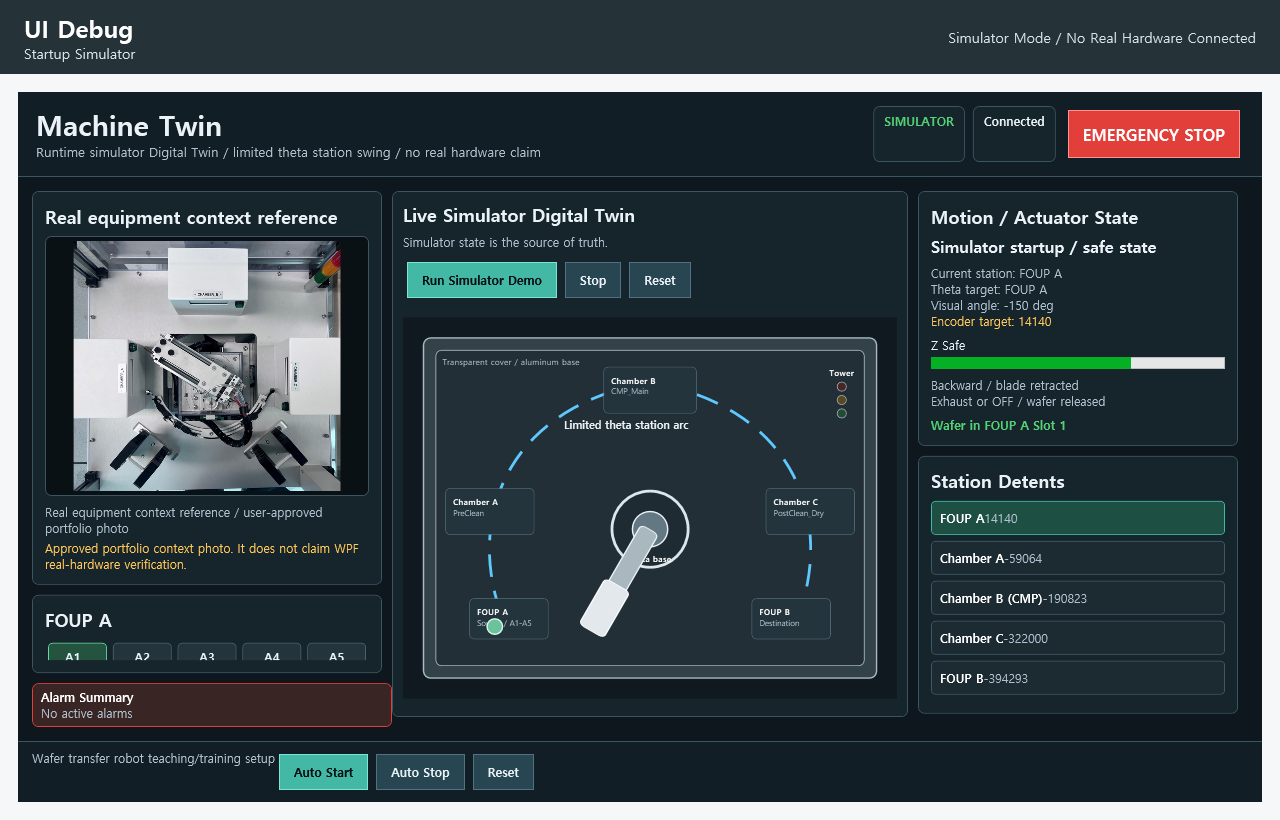
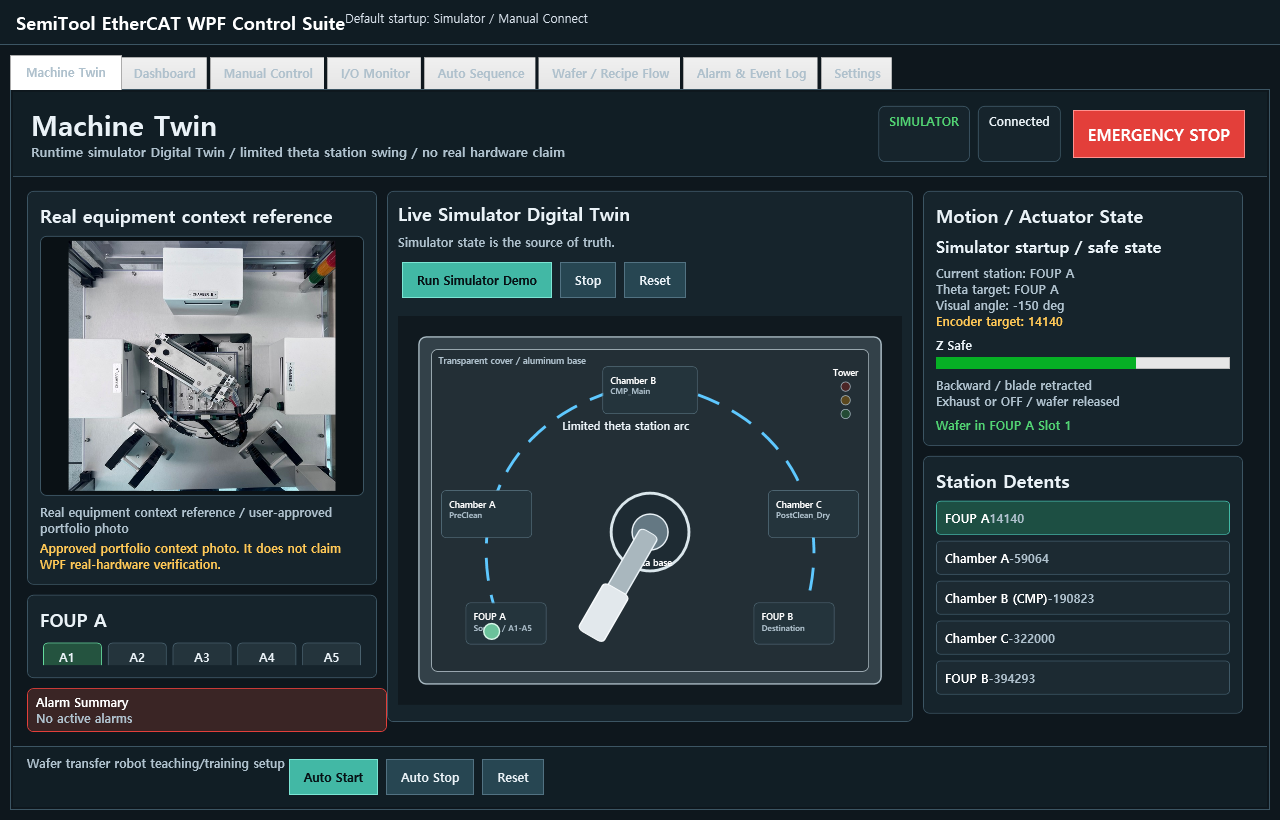
Wire Machine Twin into runtime main window

diff --git a/src/SemiTool.Hmi.Wpf/DemoAssetCapture.cs b/src/SemiTool.Hmi.Wpf/DemoAssetCapture.cs
@@ -28,7 +28,7 @@ internal static class DemoAssetCapture
 
         await PrepareSimulatorStateAsync(runtime);
         await viewModel.RefreshAsync();
-        await RenderMachineTwinAsync(viewModel.MachineTwin, "Machine Twin", "Actual runtime MachineTwinView / simulator mode", IoPath.Combine(outputDirectory, "machine-twin-runtime.png"));
+        await RenderMainWindowAsync(viewModel, IoPath.Combine(outputDirectory, "machine-twin-runtime.png"));
         await RenderAsync(new DashboardView { DataContext = viewModel.Dashboard }, "Dashboard", "Simulator mode overview", IoPath.Combine(outputDirectory, "dashboard.png"));
         await RenderAsync(new ManualControlView { DataContext = viewModel.Manual }, "Manual Control", "Simulator-only manual operations", IoPath.Combine(outputDirectory, "manual-control.png"));
         await RenderAsync(new IoMonitorView { DataContext = viewModel.IoMonitor }, "I/O Monitor", "Named DO/DI points from EquipmentProfile", IoPath.Combine(outputDirectory, "io-monitor.png"));
@@ -59,7 +59,15 @@ internal static class DemoAssetCapture
         {
             var fileName = GetDebugScreenshotName(step.StepIndex);
             var path = IoPath.Combine(screenshotDirectory, fileName);
-            await RenderMachineTwinAsync(viewModel.MachineTwin, "UI Debug", step.StepName, path);
+            if (step.StepIndex == 0)
+            {
+                await RenderMainWindowAsync(viewModel, path);
+            }
+            else
+            {
+                await RenderMachineTwinAsync(viewModel.MachineTwin, "UI Debug", step.StepName, path);
+            }
+
             var relativePath = $"docs/debug/latest/screenshots/{fileName}";
             trace.Add(viewModel.MachineTwin.CreateTraceEntry(step, relativePath));
         });
@@ -92,6 +100,43 @@ internal static class DemoAssetCapture
 
     private static Task RenderMachineTwinAsync(MachineTwinViewModel machineTwin, string title, string subtitle, string path) =>
         RenderAsync(new MachineTwinView { DataContext = machineTwin }, title, subtitle, path);
+
+    private static async Task RenderMainWindowAsync(MainViewModel viewModel, string path)
+    {
+        var window = new MainWindow
+        {
+            DataContext = viewModel,
+            Width = CaptureWidth,
+            Height = CaptureHeight,
+            WindowStartupLocation = WindowStartupLocation.Manual,
+            Left = -32000,
+            Top = -32000,
+            ShowInTaskbar = false,
+            WindowStyle = WindowStyle.None,
+            ResizeMode = ResizeMode.NoResize
+        };
+
+        try
+        {
+            window.Show();
+            window.Measure(new Size(CaptureWidth, CaptureHeight));
+            window.Arrange(new Rect(0, 0, CaptureWidth, CaptureHeight));
+            window.UpdateLayout();
+            await window.Dispatcher.InvokeAsync(() => { }, DispatcherPriority.Render);
+
+            var bitmap = new RenderTargetBitmap(CaptureWidth, CaptureHeight, Dpi, Dpi, PixelFormats.Pbgra32);
+            bitmap.Render(window);
+
+            var encoder = new PngBitmapEncoder();
+            encoder.Frames.Add(BitmapFrame.Create(bitmap));
+            await using var stream = File.Create(path);
+            encoder.Save(stream);
+        }
+        finally
+        {
+            window.Close();
+        }
+    }
 
     private static async Task WriteDebugReportAsync(string debugDirectory, IReadOnlyList<MachineTwinStateTraceEntry> trace)
     {
@@ -214,6 +259,15 @@ internal static class DemoAssetCapture
         builder.AppendLine("- Preserved theta encoder values are machine/teaching values, not literal UI degrees.");
         builder.AppendLine("- The robot is modeled as a limited station-to-station theta swing, not continuous 360-degree rotation.");
         builder.AppendLine();
+        builder.AppendLine("## Runtime Integration Check");
+        builder.AppendLine();
+        builder.AppendLine("- MainWindow first tab is `Machine Twin`.");
+        builder.AppendLine("- MainWindow uses `<views:MachineTwinView DataContext=\"{Binding MachineTwin}\" />`.");
+        builder.AppendLine("- MainViewModel exposes `MachineTwinViewModel` through the `MachineTwin` property.");
+        builder.AppendLine("- `Run Simulator Demo` is a command on the actual `MachineTwinView` runtime screen.");
+        builder.AppendLine("- `00-startup-simulator.png` is captured from the actual `MainWindow`, so it shows the selected `Machine Twin` tab.");
+        builder.AppendLine("- The remaining screenshots are captured from the same `MachineTwinView` and `MachineTwinViewModel` used by the running app.");
+        builder.AppendLine();
         builder.AppendLine("## Captured Steps");
         builder.AppendLine();
         builder.AppendLine("| Step | State | Station | Z | Blade | Vacuum | Wafer | Screenshot |");
@@ -229,7 +283,7 @@ internal static class DemoAssetCapture
         builder.AppendLine();
         builder.AppendLine("| Expected simulator movement | Evidence in this report |");
         builder.AppendLine("|---|---|");
-        builder.AppendLine("| Machine Twin starts in Simulator mode and does not connect to real hardware. | Step 0 shows `IsSimulatorMode=true`, `IsRealHardwareMode=false`, and `IsConnected=false` in the JSON/CSV trace. |");
+        builder.AppendLine("| Machine Twin starts in Simulator mode and does not connect to real hardware. | Step 0 shows `IsSimulatorMode=true` and `IsRealHardwareMode=false`; `IsConnected` refers to the simulator controller connection, not real equipment. |");
         builder.AppendLine("| FOUP A Slot 1 starts with a wafer. | Step 1 keeps `IsWaferInFoupA1=true` and no wafer on the blade. |");
         builder.AppendLine("| Theta target follows the limited station arc instead of a 360-degree dial. | Steps 2, 5, 7, 8, and 9 show station-to-station `ThetaTargetName` changes plus preserved encoder values. |");
         builder.AppendLine("| Z moves from Safe to Work only during pick/place visualization. | Steps 3, 4, 6, 7, 8, and 9 show `ZState=Z Work`; reset returns to `Z Safe`. |");

diff --git a/src/SemiTool.Tests/RuntimeIntegrationTests.cs b/src/SemiTool.Tests/RuntimeIntegrationTests.cs
@@ -1,0 +1,69 @@
+namespace SemiTool.Tests;
+
+public sealed class RuntimeIntegrationTests
+{
+    [Fact]
+    public void MainWindow_PutsMachineTwinBeforeDashboard()
+    {
+        var xaml = ReadRepositoryFile("src", "SemiTool.Hmi.Wpf", "MainWindow.xaml");
+
+        var machineTwinIndex = xaml.IndexOf("Header=\"Machine Twin\"", StringComparison.Ordinal);
+        var dashboardIndex = xaml.IndexOf("Header=\"Dashboard\"", StringComparison.Ordinal);
+
+        Assert.True(machineTwinIndex >= 0, "MainWindow must expose the Machine Twin tab.");
+        Assert.True(dashboardIndex >= 0, "MainWindow must keep the Dashboard tab.");
+        Assert.True(machineTwinIndex < dashboardIndex, "Machine Twin should be the first/default tab before Dashboard.");
+    }
+
+    [Fact]
+    public void MainWindow_BindsMachineTwinViewToMainViewModelProperty()
+    {
+        var xaml = ReadRepositoryFile("src", "SemiTool.Hmi.Wpf", "MainWindow.xaml");
+
+        Assert.Contains("<views:MachineTwinView DataContext=\"{Binding MachineTwin}\" />", xaml);
+        Assert.Contains("SelectedIndex=\"0\"", xaml);
+    }
+
+    [Fact]
+    public void MainViewModel_ExposesMachineTwinUsingSharedRuntime()
+    {
+        var source = ReadRepositoryFile("src", "SemiTool.Hmi.Wpf", "ViewModels", "MainViewModel.cs");
+
+        Assert.Contains("public MachineTwinViewModel MachineTwin { get; }", source);
+        Assert.Contains("MachineTwin = new MachineTwinViewModel(runtime);", source);
+        Assert.Contains("MachineTwin.Refresh(status);", source);
+    }
+
+    [Fact]
+    public void RuntimeDebugEvidence_DocumentsMainWindowIntegration()
+    {
+        var captureSource = ReadRepositoryFile("src", "SemiTool.Hmi.Wpf", "DemoAssetCapture.cs");
+
+        Assert.Contains("## Runtime Integration Check", captureSource);
+        Assert.Contains("00-startup-simulator.png", captureSource);
+        Assert.Contains("RenderMainWindowAsync", captureSource);
+        Assert.Contains("MainWindow first tab is `Machine Twin`", captureSource);
+    }
+
+    private static string ReadRepositoryFile(params string[] parts)
+    {
+        var path = Path.Combine(new[] { FindRepositoryRoot() }.Concat(parts).ToArray());
+        return File.ReadAllText(path);
+    }
+
+    private static string FindRepositoryRoot()
+    {
+        var directory = new DirectoryInfo(AppContext.BaseDirectory);
+        while (directory is not null)
+        {
+            if (File.Exists(Path.Combine(directory.FullName, "SemiTool.EtherCAT.WPF.ControlSuite.sln")))
+            {
+                return directory.FullName;
+            }
+
+            directory = directory.Parent;
+        }
+
+        throw new DirectoryNotFoundException("Could not locate repository root for runtime integration tests.");
+    }
+}

diff --git a/docs/debug/latest/ui-runtime-verification.md b/docs/debug/latest/ui-runtime-verification.md
@@ -19,6 +19,15 @@ dotnet run --project src/SemiTool.Hmi.Wpf/SemiTool.Hmi.Wpf.csproj --configuratio
 - Preserved theta encoder values are machine/teaching values, not literal UI degrees.
 - The robot is modeled as a limited station-to-station theta swing, not continuous 360-degree rotation.
 
+## Runtime Integration Check
+
+- MainWindow first tab is `Machine Twin`.
+- MainWindow uses `<views:MachineTwinView DataContext="{Binding MachineTwin}" />`.
+- MainViewModel exposes `MachineTwinViewModel` through the `MachineTwin` property.
+- `Run Simulator Demo` is a command on the actual `MachineTwinView` runtime screen.
+- `00-startup-simulator.png` is captured from the actual `MainWindow`, so it shows the selected `Machine Twin` tab.
+- The remaining screenshots are captured from the same `MachineTwinView` and `MachineTwinViewModel` used by the running app.
+
 ## Captured Steps
 
 | Step | State | Station | Z | Blade | Vacuum | Wafer | Screenshot |
@@ -40,7 +49,7 @@ dotnet run --project src/SemiTool.Hmi.Wpf/SemiTool.Hmi.Wpf.csproj --configuratio
 
 | Expected simulator movement | Evidence in this report |
 |---|---|
-| Machine Twin starts in Simulator mode and does not connect to real hardware. | Step 0 shows `IsSimulatorMode=true`, `IsRealHardwareMode=false`, and `IsConnected=false` in the JSON/CSV trace. |
+| Machine Twin starts in Simulator mode and does not connect to real hardware. | Step 0 shows `IsSimulatorMode=true` and `IsRealHardwareMode=false`; `IsConnected` refers to the simulator controller connection, not real equipment. |
 | FOUP A Slot 1 starts with a wafer. | Step 1 keeps `IsWaferInFoupA1=true` and no wafer on the blade. |
 | Theta target follows the limited station arc instead of a 360-degree dial. | Steps 2, 5, 7, 8, and 9 show station-to-station `ThetaTargetName` changes plus preserved encoder values. |
 | Z moves from Safe to Work only during pick/place visualization. | Steps 3, 4, 6, 7, 8, and 9 show `ZState=Z Work`; reset returns to `Z Safe`. |

diff --git a/README.md b/README.md
@@ -62,6 +62,8 @@ FOUP A -> Chamber A -> Chamber B -> Chamber C -> FOUP B
 
 The demo runs in Simulator mode only. It does not load `IEG3268_Dll.dll`, does not connect to real equipment, and does not claim real-hardware verification.
 
+The first runtime debug screenshot captures the actual `MainWindow` with the `Machine Twin` tab selected. That tab contains `<views:MachineTwinView DataContext="{Binding MachineTwin}" />`, and `MainViewModel.MachineTwin` shares the same `RuntimeCoordinator` used by the other HMI tabs.
+
 ## Runtime UI Evidence Pack
 
 The repo includes a repeatable runtime UI evidence pack:
@@ -71,6 +73,8 @@ The repo includes a repeatable runtime UI evidence pack:
 - `docs/debug/latest/machine-twin-state-trace.csv`
 - `docs/debug/latest/event-log.txt`
 - `docs/debug/latest/screenshots/*.png`
+
+The startup screenshot `docs/debug/latest/screenshots/00-startup-simulator.png` is the integration proof: it shows the actual running shell with Machine Twin selected as the first/default tab.
 
 Regenerate it with:
 

diff --git a/README.ko.md b/README.ko.md
@@ -50,6 +50,8 @@ FOUP A -> Chamber A -> Chamber B -> Chamber C -> FOUP B
 
 이 데모는 Simulator mode 전용이며 vendor DLL을 로드하지 않고 실제 장비에 연결하지 않습니다.
 
+첫 번째 runtime debug screenshot은 실제 `MainWindow`에서 `Machine Twin` 탭이 선택된 상태를 캡처합니다. 이 탭은 `<views:MachineTwinView DataContext="{Binding MachineTwin}" />`를 사용하며, `MainViewModel.MachineTwin`은 다른 HMI 탭과 같은 `RuntimeCoordinator`를 공유합니다.
+
 ## Runtime UI Evidence Pack
 
 런타임 UI 동작 증거는 다음 경로에 생성됩니다.
@@ -59,6 +61,8 @@ FOUP A -> Chamber A -> Chamber B -> Chamber C -> FOUP B
 - `docs/debug/latest/machine-twin-state-trace.csv`
 - `docs/debug/latest/event-log.txt`
 - `docs/debug/latest/screenshots/*.png`
+
+`docs/debug/latest/screenshots/00-startup-simulator.png`는 실제 실행 셸에서 Machine Twin이 첫 번째/default 탭으로 선택되어 있음을 보여주는 통합 증거입니다.
 
 재생성 명령:
 
